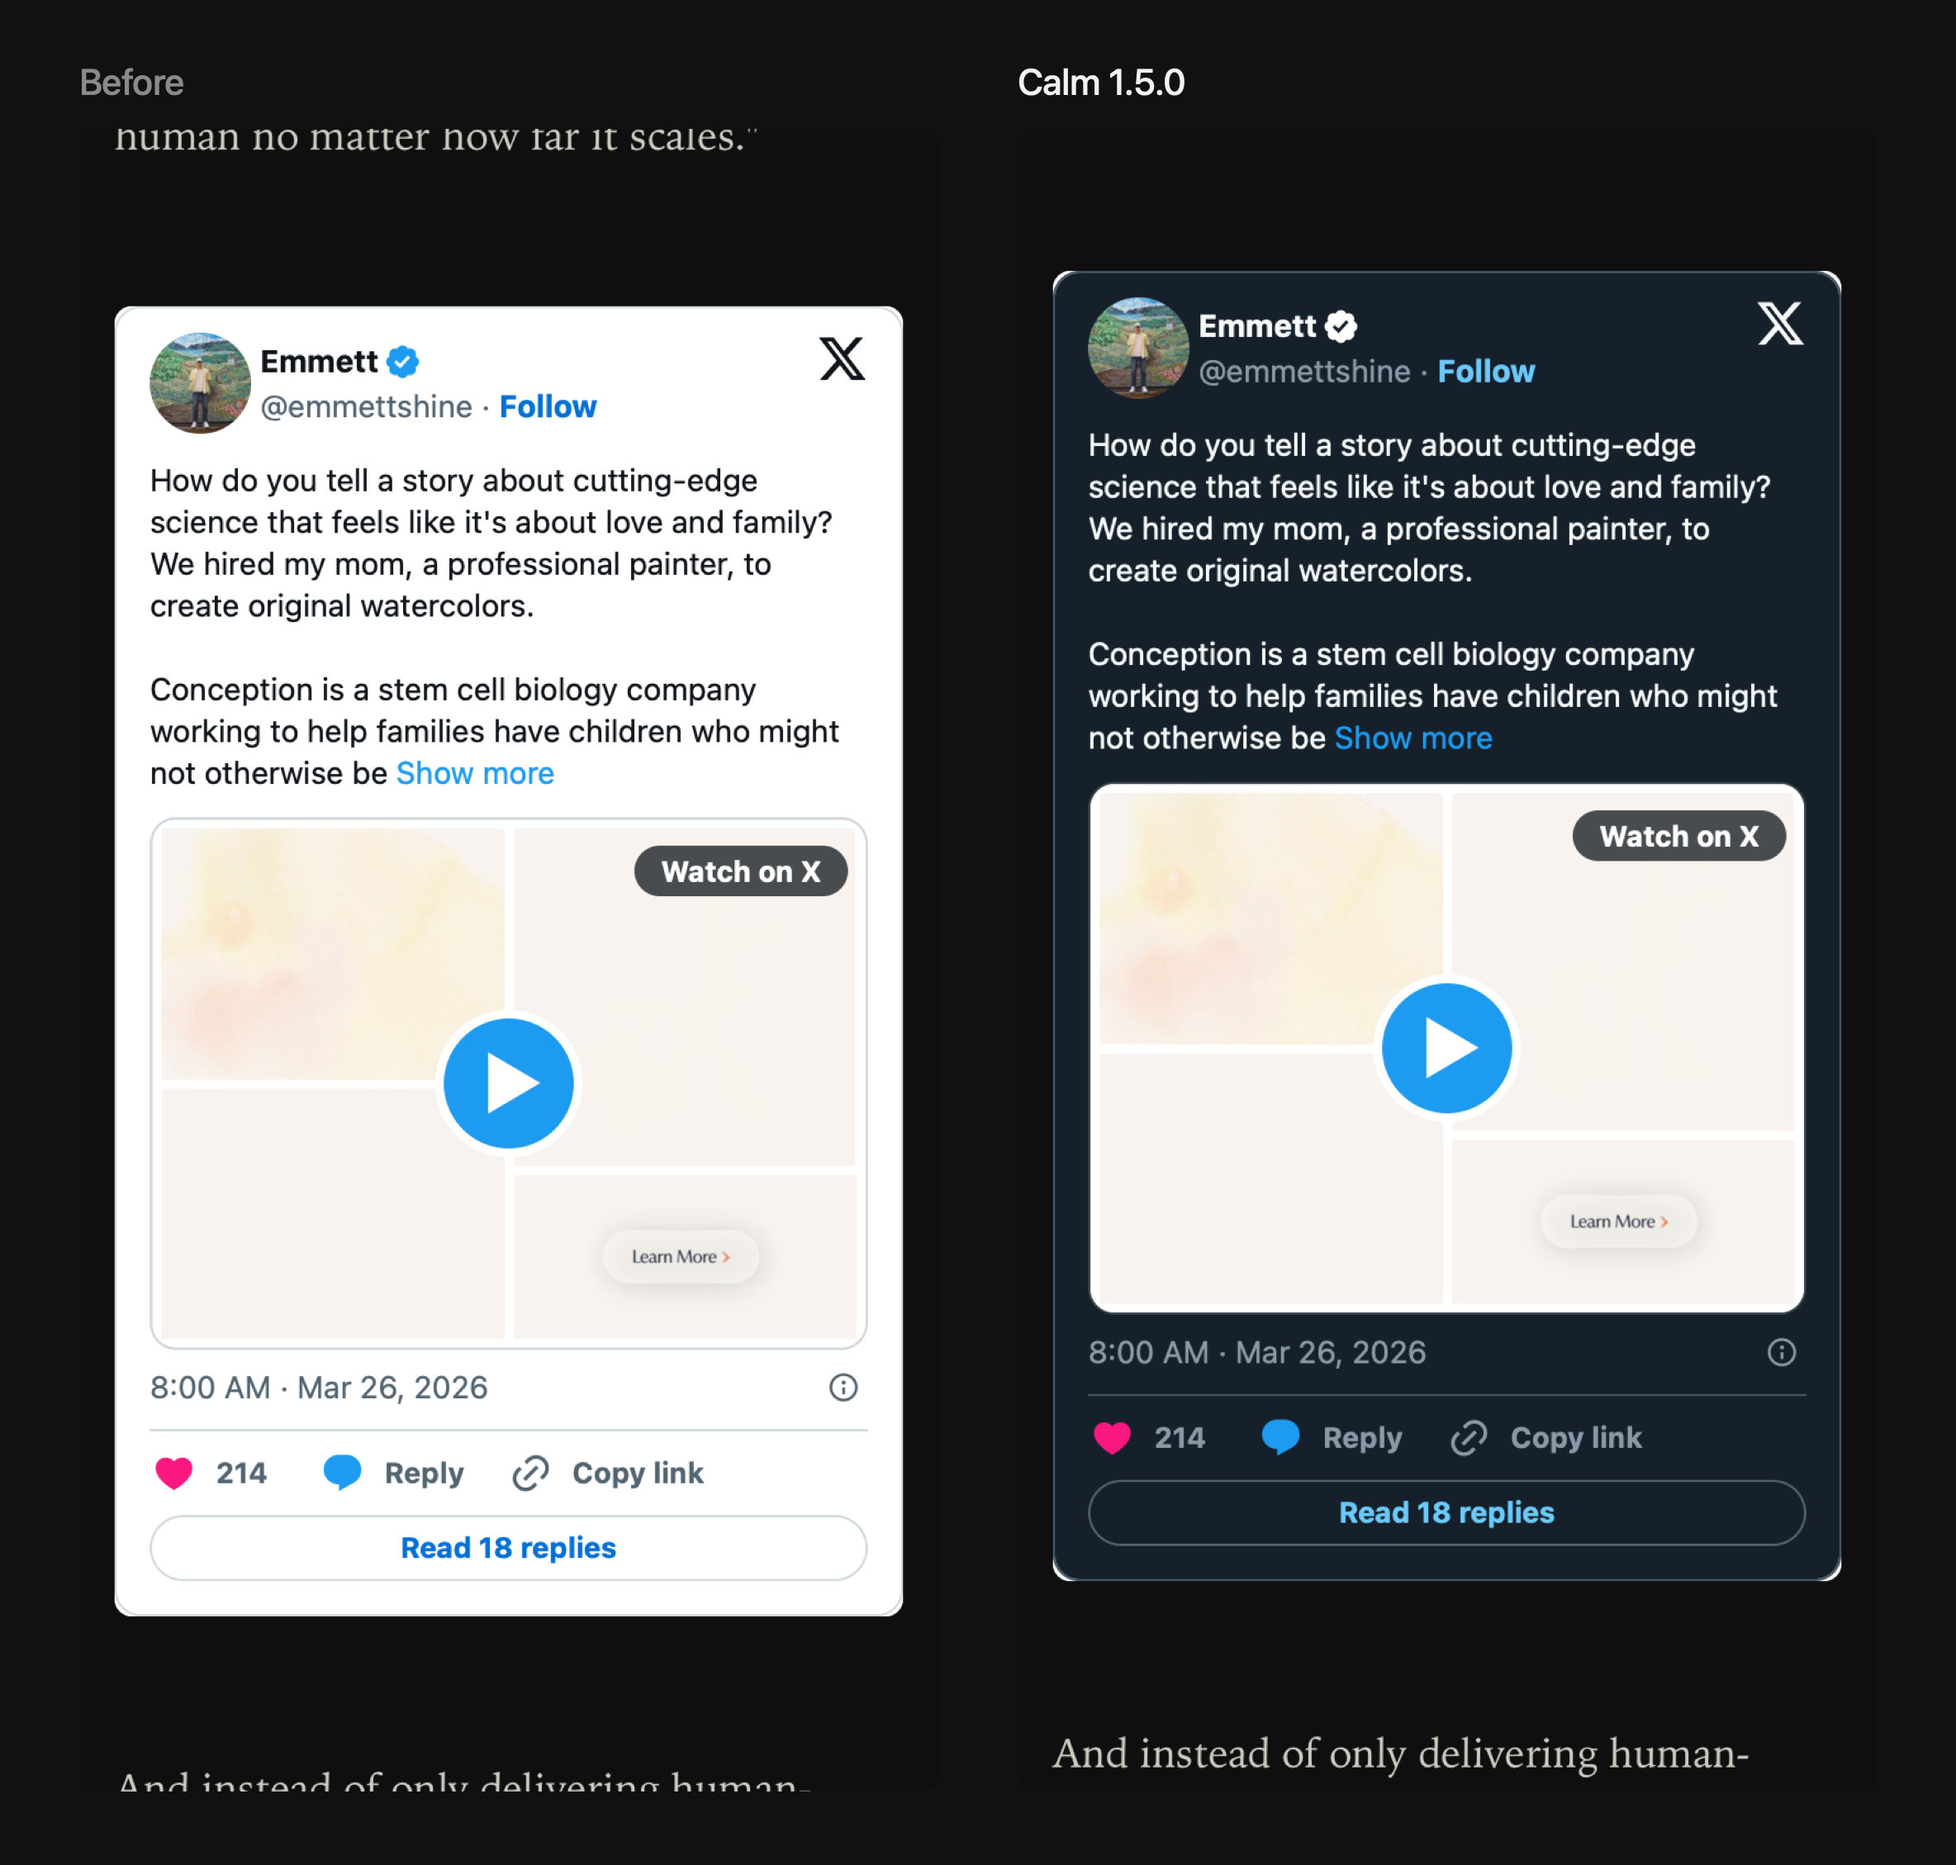
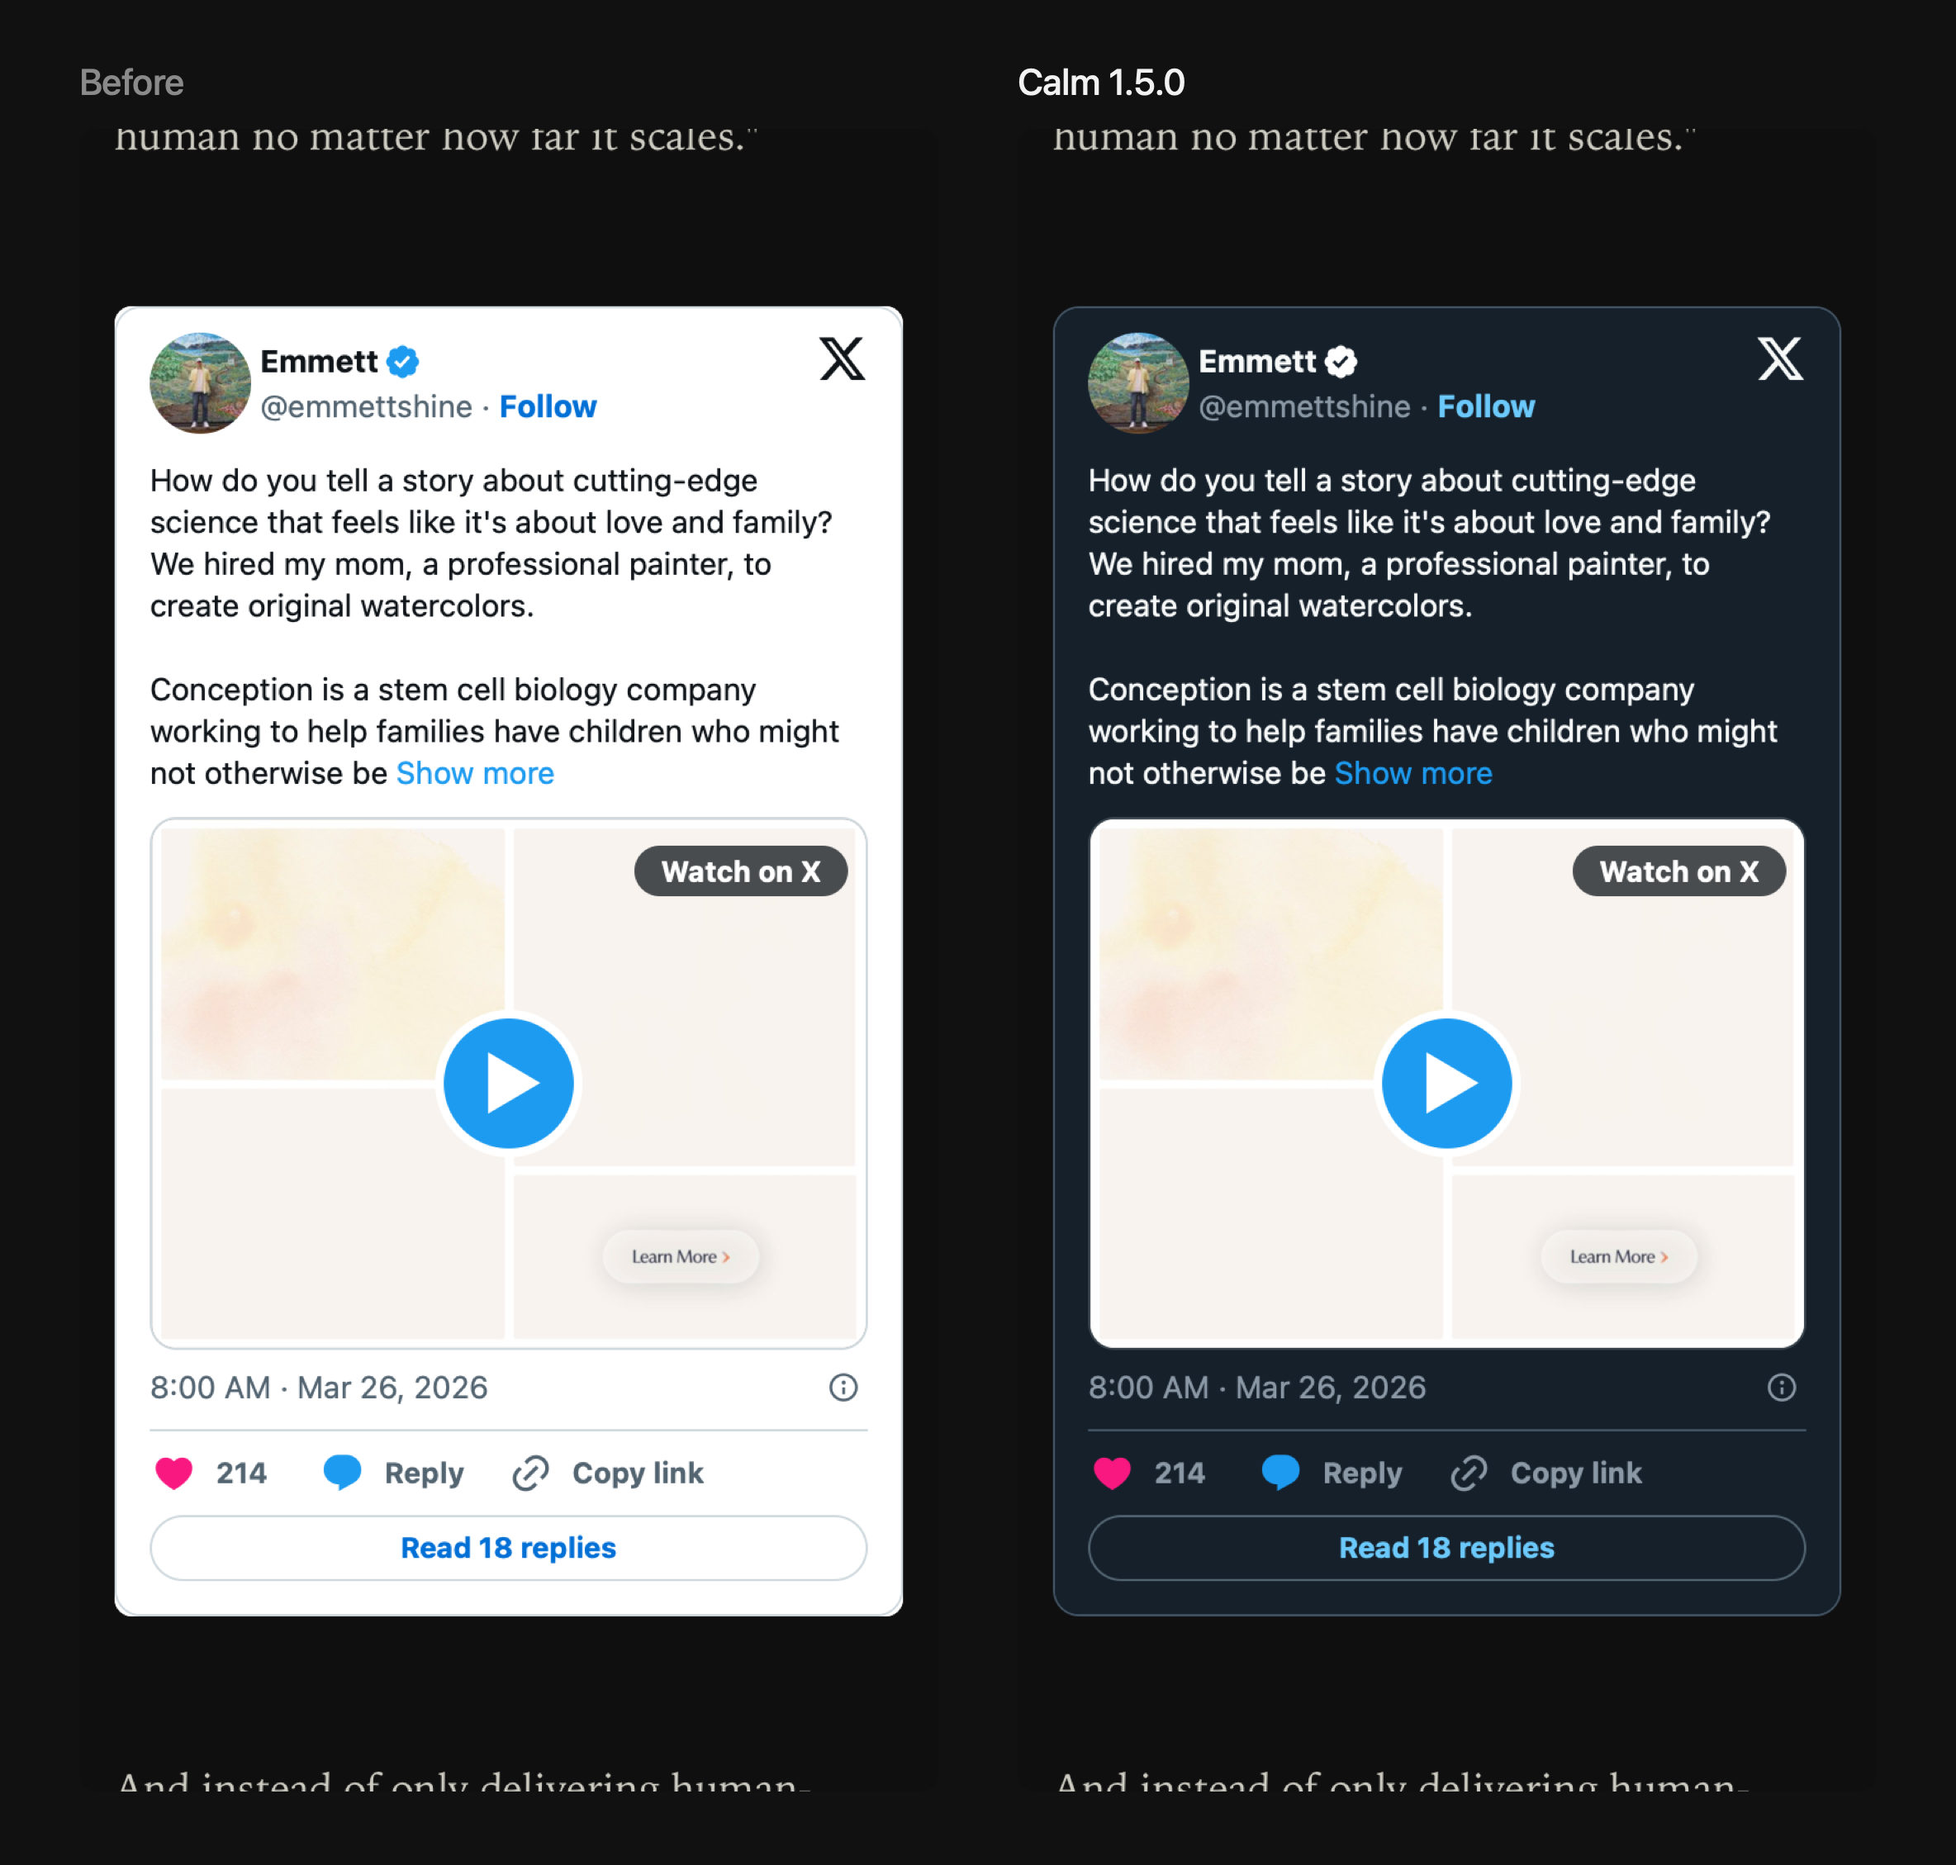
Clear the white corner tips on a dark X post
An X post's frame got an opaque white canvas in dark mode under Calm's
"light dark" scheme, so white showed outside the dark card's rounded
corners. A light scheme on the frame makes the canvas transparent. CSS
only, nothing changes after load.

Verified: npm test; npx playwright test on the Mac (178 passed, 2 skipped, the @visual failure expected off Linux); the frame test fails without the CSS; before/after image remade against origin/main and its corners checked enlarged.

diff --git a/Calm.nnwtheme/stylesheet.css b/Calm.nnwtheme/stylesheet.css
@@ -696,6 +696,14 @@ article {
 	}
 }
 
+/* An X post draws its own card, white or dark, with rounded corners. Under
+   Calm's "light dark" its frame gets the same opaque white canvas in dark
+   mode, which shows as white tips outside the dark card's corners. A light
+   scheme makes the canvas transparent, so the page shows there instead. */
+.articleBody iframe:is([src*="platform.twitter.com/embed"], [src*="platform.x.com/embed"]) {
+	color-scheme: light;
+}
+
 .iframeWrap {
 	position: relative;
 	display: block;

diff --git a/CHANGELOG.md b/CHANGELOG.md
@@ -62,8 +62,9 @@ Video and embeds
   black from the first frame.
 - A Ghost video card shows its thumbnail, and keeps its shape while the
   thumbnail loads.
-- X posts drawn by X's script follow dark mode. X frames embedded directly
-  stay white, since making them dark needed a reload.
+- X posts drawn by X's script follow dark mode, with the page showing
+  outside the card's rounded corners instead of white tips. X frames
+  embedded directly stay white, since making them dark needed a reload.
 - X, Bluesky and Mastodon embeds take their real height.
 
 Mac
